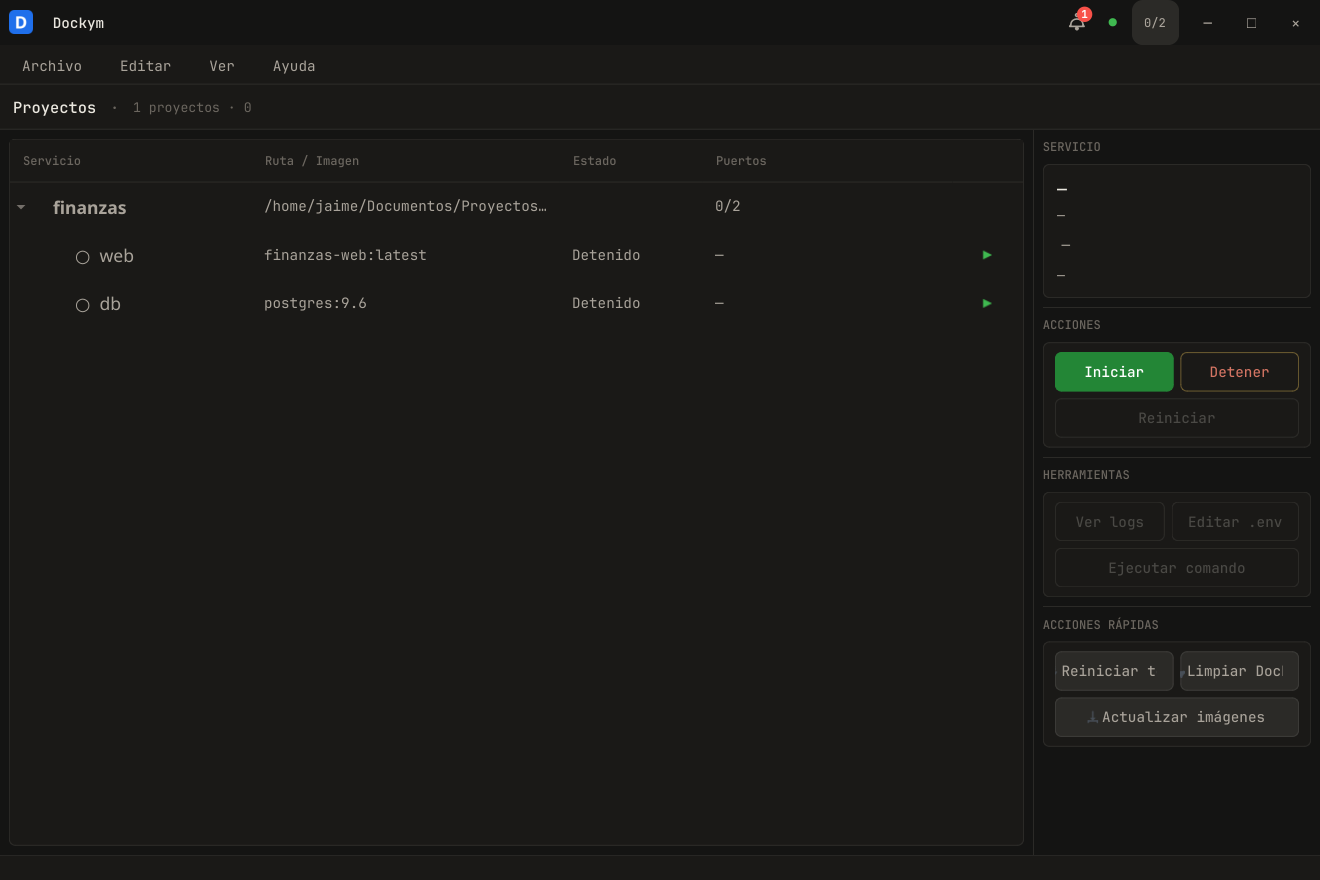
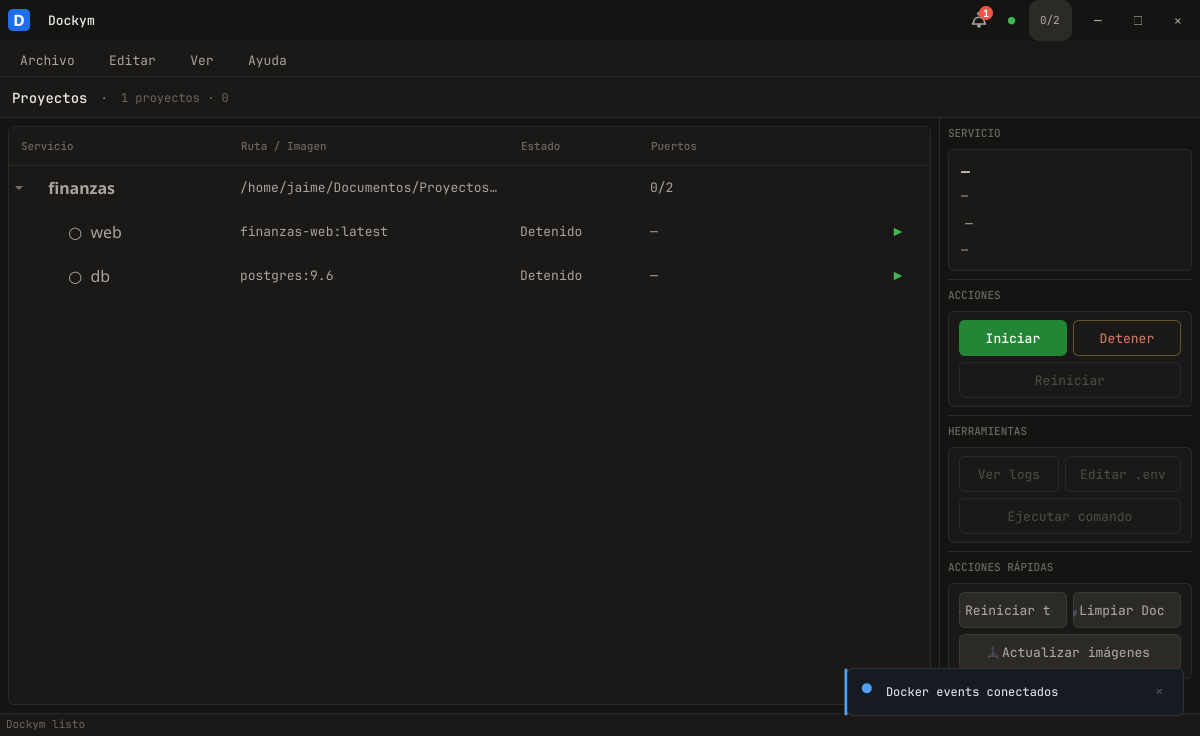
docs: add command-palette and settings screenshots

diff --git a/README.md b/README.md
@@ -77,22 +77,19 @@ uv run dockym
 ## Capturas
 
 <!-- 
-  🖼️ AGREGAR CAPTURAS AQUÍ
-  =========================
-  Sube las imágenes a la carpeta assets/screenshots/ del repo o usa
-  un servicio como imgur/cloudinary. Ejemplo:
-  
-  ![Ventana principal](./assets/screenshots/main-window.png)
-  
-  Secciones recomendadas para screenshot:
-  1. main-window  — Ventana principal con project tree + action panel
-  2. themes       — Los 4 temas lado a lado (dark, dark_vscode, dark_claude, light)
-  3. palette      — Command palette (Ctrl+F) en acción
-  4. notifications — Toast notifications stack
-  5. logs         — Logs viewer
-  6. templates    — Service templates dialog
-  7. settings     — Settings dialog
-  8. prune        — Docker prune dialog
+  🖼️ Para agregar más capturas:
+  Toma screenshots de la app y guárdalas en assets/screenshots/.
+  Luego agrégalas a la tabla de abajo.
+
+  Sugerencias:
+  - main-window     — Ventana principal con project tree + action panel
+  - command-palette — Command palette (Ctrl+F)
+  - themes          — Tema claro vs oscuro
+  - notifications   — Stack de toasts
+  - logs            — Visor de logs
+  - settings        — Diálogo de configuración
+  - templates       — Diálogo de plantillas de servicios
+  - prune           — Diálogo de Docker prune
 -->
 
 <table>
@@ -102,14 +99,25 @@ uv run dockym
   </tr>
   <tr>
     <td align="center"><em>Ventana principal</em></td>
-    <td align="center"><em>Command palette</em></td>
+    <td align="center"><em>Command palette (Ctrl+F)</em></td>
+  </tr>
+  <tr>
+    <td><img src="./assets/screenshots/appearance-dialog.png" alt="Selector de tema" width="400"></td>
+    <td><img src="./assets/screenshots/settings-dialog.png" alt="Configuración" width="400"></td>
+  </tr>
+  <tr>
+    <td align="center"><em>Selector de tema</em></td>
+    <td align="center"><em>Configuración</em></td>
+  </tr>
+  <tr>
+    <td><img src="./assets/screenshots/prune-dialog.png" alt="Docker Prune" width="400"></td>
+    <td></td>
+  </tr>
+  <tr>
+    <td align="center"><em>Docker Prune</em></td>
+    <td></td>
   </tr>
 </table>
-
-<!--
-  Reemplaza las rutas de las imágenes de arriba cuando tengas las capturas.
-  Puedes borrar este comentario y el de arriba cuando tengas las imágenes.
--->
 
 ---
 